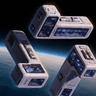
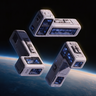
fix(models): MiniMax M3 不做专属头像；千问 3.8 27B 改用正文头图裁出完整的三台设备
用户 2026-10-25 看过上一个 commit 的头像：
- 「m3 不适配了……适配 m3.1 flash 就行」：删掉 minimax-m3 的专属头像与 id 登记，minimax-m3 / MiniMax-M3
  回到 MiniMax 家族标（测试改为断言落家族标）。
- 「qwen3.8 27b 感觉没截完整」：推文封面（msg_cdn_url）是 2.35:1，从 16:9 原图上下各裁掉一截，三台设备的
  上下沿被切。改用正文第一张头图（2048×1152，与用户发来的原图同一张），取 (36,123) 起 900 见方：三台设备
  完整、带上地平线弧，右缘离标题字还有约 70px。

Made-with: Orbita

diff --git a/src/renderer/src/features/settings/ModelAvatar.tsx b/src/renderer/src/features/settings/ModelAvatar.tsx
@@ -13,7 +13,6 @@ import gptLuna from "../../../../../design-system/assets/model-avatars/gpt-luna.
 import gptSol from "../../../../../design-system/assets/model-avatars/gpt-sol.png";
 import kimiK3 from "../../../../../design-system/assets/model-avatars/kimi-k3.png";
 import kimiK31 from "../../../../../design-system/assets/model-avatars/kimi-k3.1.png";
-import minimaxM3 from "../../../../../design-system/assets/model-avatars/minimax-m3.png";
 import minimaxM31Flash from "../../../../../design-system/assets/model-avatars/minimax-m3.1-flash.png";
 import mimoFlash from "../../../../../design-system/assets/model-avatars/mimo-v2.6-flash.png";
 import mimoPro from "../../../../../design-system/assets/model-avatars/mimo-v2.6-pro.png";
@@ -41,8 +40,8 @@ import { VendorLogo } from "./VendorLogo";
  *   月亮在原图里被右缘切掉一截，按左半镜像补成整轮（2026-10-25 用户：「月亮和太阳的占比放小一点」）；
  * - qwen3.8-max / qwen3.8-flash：千问 AI 平台模型市场（qianwenai.com/models）顶部轮播的两张封面
  *   （绿草几何体、彩色羽流）裁方；
- * - qwen3.8-27b：千问公众号「Qwen3.8-27B 开源」封面，裁三台设备与地平线（避开标题字）；
- * - minimax-m3：MiniMax 公众号「M3」封面，裁标题下方的橙色圆与圆环（封面别处都压着字）；
+ * - qwen3.8-27b：千问公众号「Qwen3.8-27B 开源」正文头图（2048×1152，推文封面是 2.35:1 裁过的、会切掉设备上下沿），
+ *   裁出完整的三台设备与地平线（避开右边的标题字）；
  * - minimax-m3.1-flash：MiniMax 公众号「M3.1 Flash 开源」封面，背景是虚化的花，把压在上面的白字按周边
  *   像素扩散抹掉再裁花心。
  * 位图按 96px 存：菜单 20px、设置页 18px，Retina 下也有富余。
@@ -67,7 +66,6 @@ const OWN_AVATARS: Record<ModelAvatarKey, string> = {
   "qwen3.8-max": qwen38Max,
   "qwen3.8-flash": qwen38Flash,
   "qwen3.8-27b": qwen3827b,
-  "minimax-m3": minimaxM3,
   "minimax-m3.1-flash": minimaxM31Flash,
 };
 

diff --git a/src/shared/known-models.test.ts b/src/shared/known-models.test.ts
@@ -222,9 +222,9 @@ describe("型号头像三级规则的前两级（原型 4，2026-10-24）", () =
     assert.deepEqual(modelAvatarOf("qwen3.8-max"), { kind: "own", key: "qwen3.8-max" });
     assert.deepEqual(modelAvatarOf("qwen3.8-flash"), { kind: "own", key: "qwen3.8-flash" });
     assert.deepEqual(modelAvatarOf("qwen3.8-27b"), { kind: "own", key: "qwen3.8-27b" });
-    // MiniMax：OpenCode 小写、开放平台 MiniMax-M3 同一枚；M3.1 Flash 另一枚
-    for (const id of ["minimax-m3", "MiniMax-M3"]) assert.deepEqual(modelAvatarOf(id), { kind: "own", key: "minimax-m3" }, id);
+    // MiniMax 只有 M3.1 Flash 一枚；M3 落家族标（用户 2026-10-25 不要它的专属头像）
     assert.deepEqual(modelAvatarOf("minimax-m3.1-flash"), { kind: "own", key: "minimax-m3.1-flash" });
+    for (const id of ["minimax-m3", "MiniMax-M3"]) assert.deepEqual(modelAvatarOf(id), { kind: "family", logo: "minimax" }, id);
   });
 
   test("GPT 按产品线各一枚（版本号写在前面）：凡是 Astra / Sol / Luna 共用，Terra 与别的落家族标", () => {

diff --git a/src/shared/known-models.ts b/src/shared/known-models.ts
@@ -406,7 +406,6 @@ export type ModelAvatarKey =
   | "qwen3.8-max"
   | "qwen3.8-flash"
   | "qwen3.8-27b"
-  | "minimax-m3"
   | "minimax-m3.1-flash";
 
 /** 第一级 · 型号专属头像，按精确 id。按 id 生效、不看服务商：OpenCode Go 上的 kimi-k3.1-pro 一样是它 */
@@ -432,11 +431,8 @@ const MODEL_AVATAR_IDS: Readonly<Record<string, ModelAvatarKey>> = {
   // 千问 AI 平台模型市场（qianwenai.com/models）顶部轮播里两个型号各自的封面
   "qwen3.8-max": "qwen3.8-max",
   "qwen3.8-flash": "qwen3.8-flash",
-  // 公众号推文封面：千问「Qwen3.8-27B 开源」、MiniMax「M3」「M3.1 Flash 开源」。id 只登记各目录里见过的写法
-  // （OpenCode / 基元律动小写，MiniMax 开放平台 MiniMax-M3）
+  // 公众号推文封面：千问「Qwen3.8-27B 开源」、MiniMax「M3.1 Flash 开源」（M3 用户不要专属头像，落家族标）
   "qwen3.8-27b": "qwen3.8-27b",
-  "minimax-m3": "minimax-m3",
-  "MiniMax-M3": "minimax-m3",
   "minimax-m3.1-flash": "minimax-m3.1-flash",
 };
 
